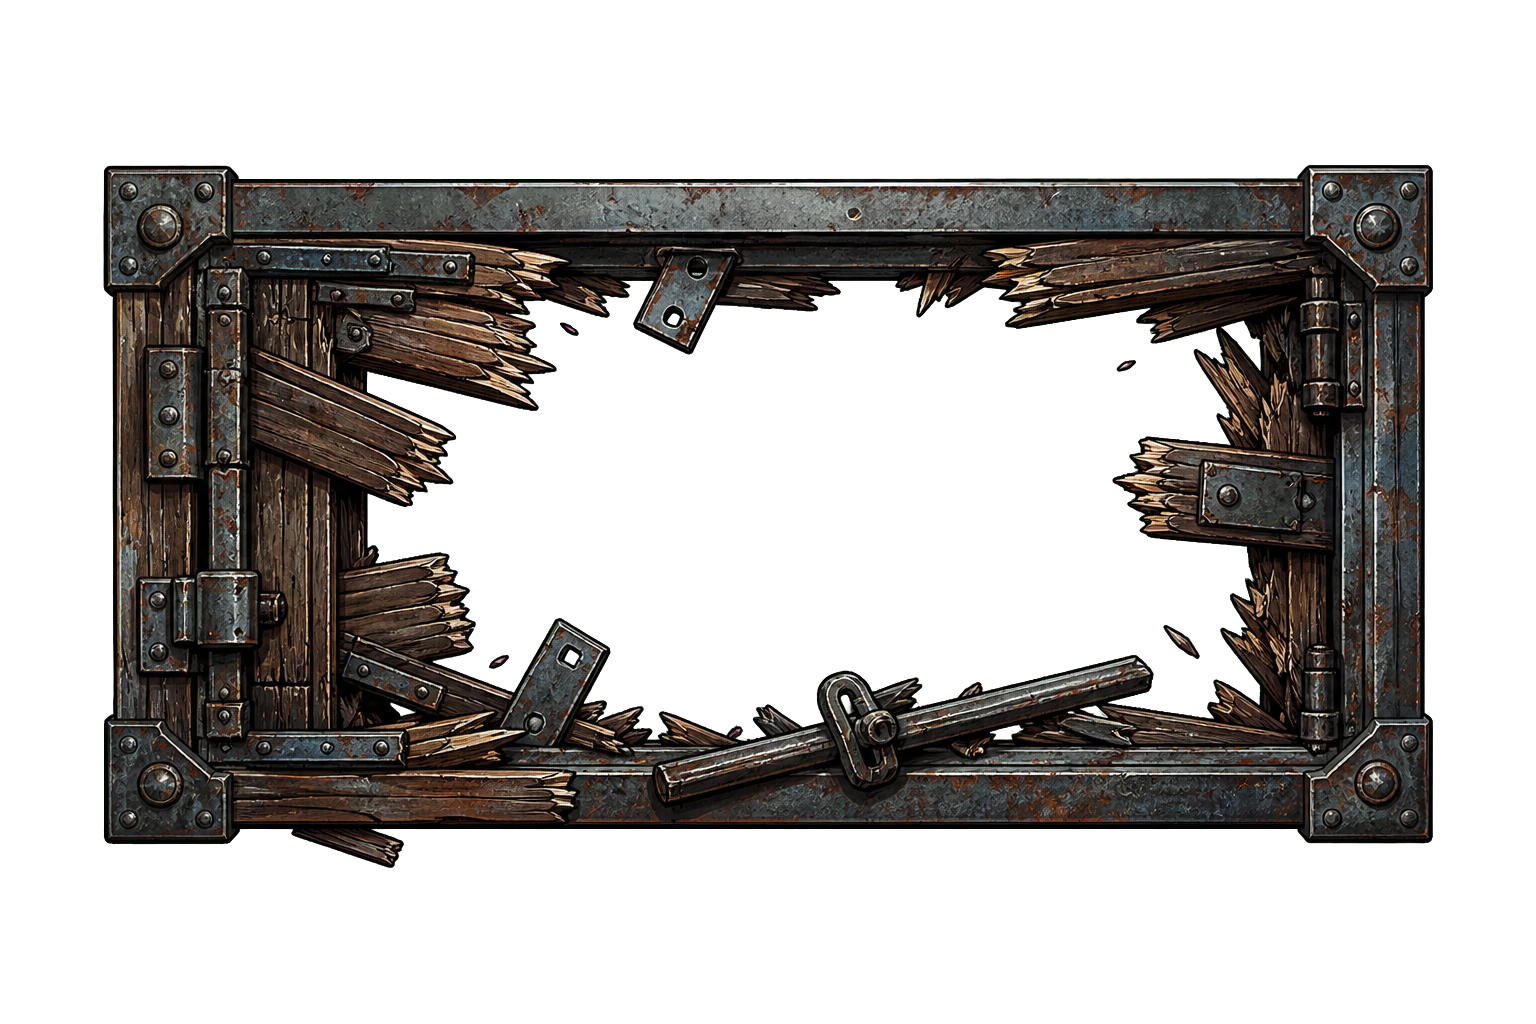
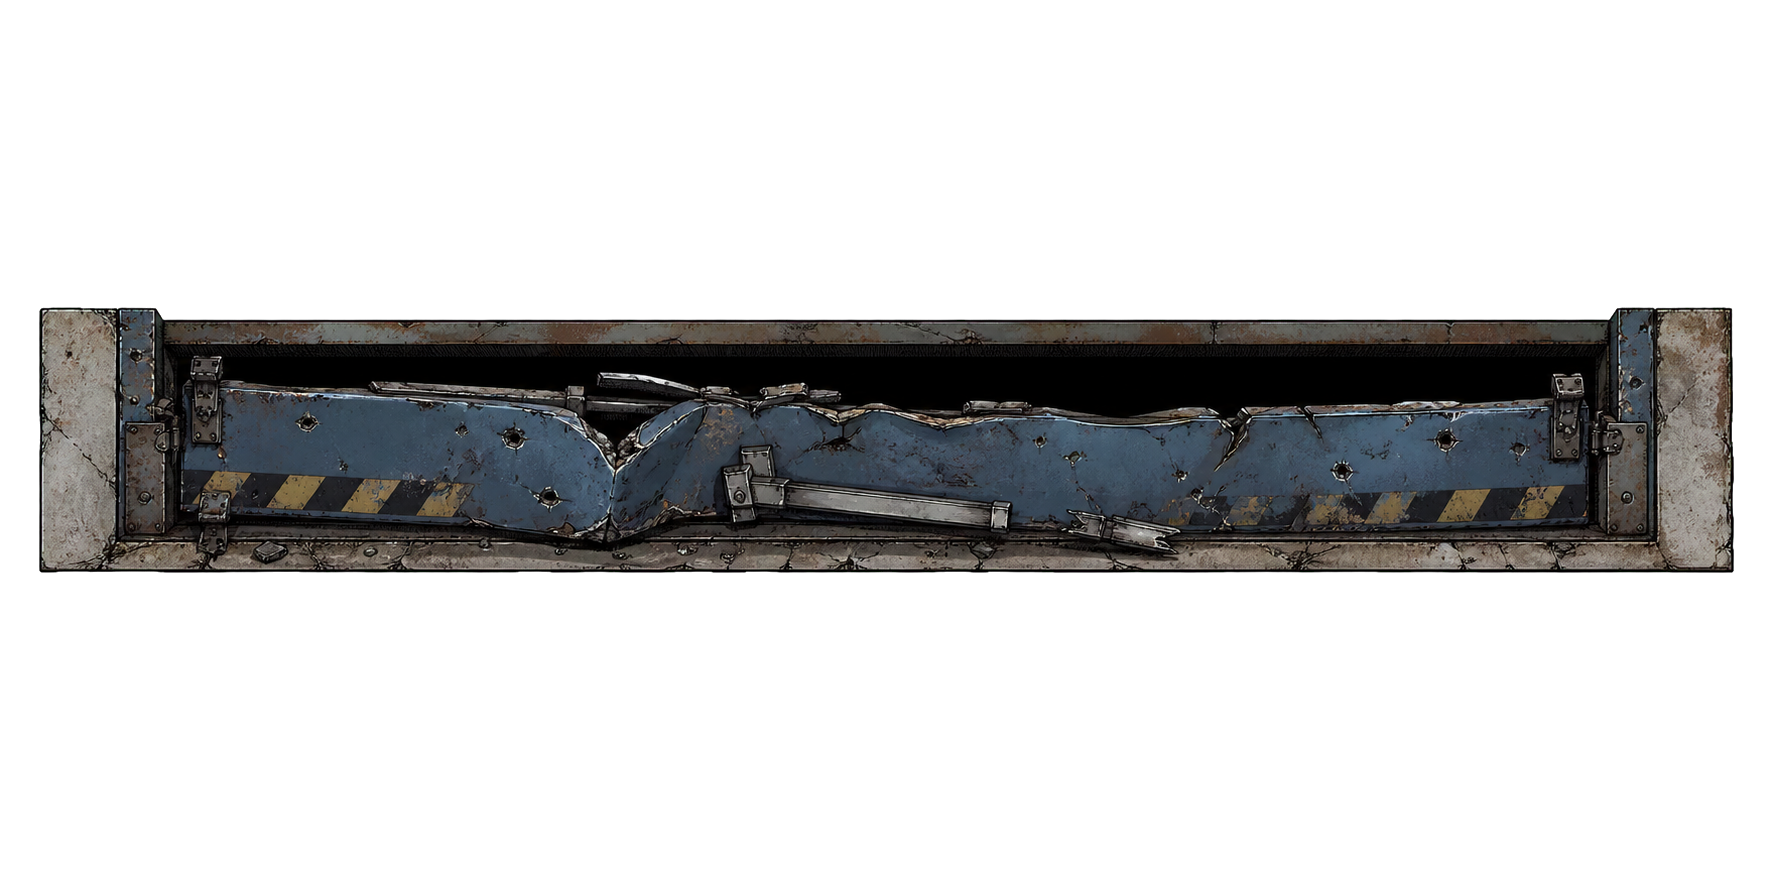
Add keyboard controls and urban doors

diff --git a/app/page.tsx b/app/page.tsx
@@ -65,7 +65,7 @@ export default function Home(){
  const audio=useRef<AudioContext|null>(null),musicAudio=useRef<HTMLAudioElement|null>(null),introTrack=useRef(1+Math.floor(Math.random()*2));
  const [onlineRole,setOnlineRole]=useState<"host"|"guest">("host");
  const [offer,setOffer]=useState(""); const [answer,setAnswer]=useState(""); const [connected,setConnected]=useState(false);
- const [roomId,setRoomId]=useState(""); const [alias,setAlias]=useState(""); const [playerCount,setPlayerCount]=useState(1); const [isHost,setIsHost]=useState(false); const [confirmQuit,setConfirmQuit]=useState(false); const [sessionEnded,setSessionEnded]=useState(false);
+ const [roomId,setRoomId]=useState(""); const [alias,setAlias]=useState(""); const [playerCount,setPlayerCount]=useState(1); const [isHost,setIsHost]=useState(false); const [confirmQuit,setConfirmQuit]=useState(false); const [confirmEndTurn,setConfirmEndTurn]=useState(false); const [sessionEnded,setSessionEnded]=useState(false);
  const [chosenMission,setChosenMission]=useState("last-ride"); const [chosenHeroes,setChosenHeroes]=useState<number[]>([0,1]); const [briefing,setBriefing]=useState(false);
  const [setupMode,setSetupMode]=useState<Mode>("solo");
  const [zoom,setZoom]=useState(1);
@@ -122,6 +122,7 @@ export default function Home(){
  function yieldTo(index:number){if(index===game.active||game.heroes[index]?.actions<1)return;commit(g=>{g.active=index;log(g,`${g.heroes[index].name} takes initiative.`);return g});announce("INITIATIVE PASSED")}
  function endTurn(){commit(g=>{g.heroes[g.active].actions=0;const next=g.heroes.findIndex(h=>h.actions>0);if(next>=0){g.active=next;log(g,`${g.heroes[next].name}'s turn.`);return g}return zombiePhase(g)});}
  function beginMission(){if(roomId&&!isHost)return;setBriefing(false);if(roomId)updateLobby("playing",game.lobbyMission||game.mission,game.lobbyHeroes||game.heroes.map(h=>h.id))}
+ function switchHands(){if(game.status!=="playing")return;commit(g=>{const h=g.heroes[g.active],[primary,secondary]=h.hands;h.hands=[secondary,primary];log(g,`${h.name} switches primary and secondary hands.`);return g});announce("HANDS SWITCHED")}
  function zombiePhase(g:Game){announce("ZOMBIE PHASE");log(g,"— ZOMBIE PHASE —");for(const z of g.zombies){const alive=g.heroes.filter(h=>h.hp>0);if(!alive.length)break;const routes=alive.map(h=>({h,path:pathTo(z,h,g.openDoors)})).filter(r=>r.path.length||dist(z,r.h)===0).sort((a,b)=>a.path.length-b.path.length),t=routes[0]?.h||alive[0],steps=z.kind==="runner"?2:1;for(let n=0;n<steps;n++){if(dist(z,t)===0){t.hp--;setFx({id:Date.now()+z.id,kind:"bite",to:{x:t.x,y:t.y}});announce(`${t.name.toUpperCase()} HIT!`);log(g,`${t.name} is bitten!`);const possessions=[...t.hands.map((item,index)=>({area:"hands" as const,index,item})),...t.bag.map((item,index)=>({area:"bag" as const,index,item}))].filter(v=>v.item);if(possessions.length&&Math.random()<.3){const lost=possessions[Math.floor(Math.random()*possessions.length)];t[lost.area][lost.index]=null;log(g,`${t.name} loses ${lost.item!.name} in the attack!`);setTimeout(()=>announce(`${t.name.toUpperCase()} LOST ${lost.item!.name.toUpperCase()}!`),650)}break}const route=pathTo(z,t,g.openDoors);if(route.length){const [nx,ny]=route[0].split(",").map(Number);z.x=nx;z.y=ny}else log(g,`${z.kind} claws at a blocked route.`)}}
   let id=Math.max(0,...g.zombies.map(z=>z.id))+1;const fallen=g.heroes.filter(h=>h.hp<=0);for(const h of fallen){g.zombies.push({id:id++,kind:"walker",x:h.x,y:h.y,hp:1});announce(`${h.name.toUpperCase()} HAS TURNED!`);log(g,`${h.name} has turned!`)}g.heroes=g.heroes.filter(h=>h.hp>0);for(const s of spawn){const count=Math.min(3,g.danger);for(let i=0;i<count;i++)g.zombies.push({id:id++,kind:g.round%4===0?"brute":g.round%3===0?"runner":"walker",x:s.x,y:s.y,hp:g.round%4===0?2:1})}
   g.noise=Math.max(0,g.noise-2);g.round++;g.active=0;g.heroes.forEach(h=>{h.actions=3;h.used=[]});if(!g.heroes.length)g.status="lost";else if(!g.objectives.length&&g.heroes.every(h=>exits.has(`${h.x},${h.y}`)))g.status="won";else log(g,`ROUND ${g.round} — ${g.zombies.length} infected roam.`);return g;
@@ -132,6 +133,8 @@ export default function Home(){
  async function makeOffer(){const pc=new RTCPeerConnection();peer.current=pc;wire(pc.createDataChannel("deadzone"));await pc.setLocalDescription(await pc.createOffer());await waitIce(pc);setOffer(btoa(JSON.stringify(pc.localDescription)));}
  async function acceptOffer(){try{const pc=new RTCPeerConnection();peer.current=pc;pc.ondatachannel=e=>wire(e.channel);await pc.setRemoteDescription(JSON.parse(atob(offer.trim())));await pc.setLocalDescription(await pc.createAnswer());await waitIce(pc);setAnswer(btoa(JSON.stringify(pc.localDescription)))}catch{ping("That invite code is invalid")}}
  async function acceptAnswer(){try{await peer.current?.setRemoteDescription(JSON.parse(atob(answer.trim())))}catch{ping("That answer code is invalid")}}
+
+ useEffect(()=>{const onKey=(e:KeyboardEvent)=>{const tag=(e.target as HTMLElement)?.tagName;if(tag==="INPUT"||tag==="TEXTAREA"||tag==="SELECT")return;if(e.key==="Escape"){if(inventory){setInventory(false);setPicked(null)}else if(confirmEndTurn)setConfirmEndTurn(false);else if(confirmQuit)setConfirmQuit(false);return}if(screen!=="game"||briefing||inventory||confirmQuit||confirmEndTurn||game.status!=="playing")return;if(e.code==="Space"){e.preventDefault();if(hero.actions>0)setConfirmEndTurn(true);else endTurn()}else if(e.key==="1"){e.preventDefault();switchHands()}};addEventListener("keydown",onKey);return()=>removeEventListener("keydown",onKey)},[screen,briefing,inventory,confirmQuit,confirmEndTurn,game.status,game.active,hero.actions]);
 
  const canEvac=!game.objectives.length,heroKey=`${hero.x},${hero.y}`,freeSearch=hero.skill==="FREE SEARCH"&&!hero.used.includes("search"),canSearch=(hero.actions>0||freeSearch)&&buildings.has(heroKey)&&!game.searched.includes(heroKey),searchTip=!buildings.has(heroKey)?"Move into a room to search":game.searched.includes(heroKey)?"This room has already been searched":"No actions left to search",closedDoor=[...doors.keys()].some(id=>id.split("|").includes(heroKey)&&!game.openDoors.includes(id)),hasBreach=hero.skill==="BREACHER"||hero.hands.some(v=>v?.door),canOpenDoor=hero.actions>0&&closedDoor&&hasBreach,doorTip=!closedDoor?"Stand beside a closed door":!hasBreach?"Equip a Fire Axe or another breaching tool":"No actions left to open the door",hasMedkit=hero.hands.some(v=>v?.heal),canHeal=hero.actions>0&&hasMedkit,healTip=!hasMedkit?"Equip a Medkit in your hand":"No actions left to use the Medkit";
  return <main className="shell" onPointerDown={resumeMusic}>
@@ -150,10 +153,10 @@ export default function Home(){
     <button onClick={createRoom}><b>ONLINE CO-OP</b><span>Create one link. Friends join instantly.</span></button>
    </div>
    <div className="menu-row"><button className="textbtn" onClick={()=>setScreen("rules")}>HOW TO PLAY</button><button className="textbtn" onClick={()=>{const s=localStorage.getItem("deadzone-save");if(s){setGame(JSON.parse(s));setScreen("game")}}}>CONTINUE</button></div>
-   <div className="background-fires" aria-hidden><i/><i/><i/></div><div className="zombie-silhouette">🧟</div><small className="build-version">BUILD 20260711-18</small>{sessionEnded&&<div className="sessionnotice"><b>THE HOST ENDED THE GAME</b><button onClick={()=>setSessionEnded(false)}>DISMISS</button></div>}
+   <div className="background-fires" aria-hidden><i/><i/><i/></div><div className="zombie-silhouette">🧟</div><small className="build-version">BUILD 20260711-19</small>{sessionEnded&&<div className="sessionnotice"><b>THE HOST ENDED THE GAME</b><button onClick={()=>setSessionEnded(false)}>DISMISS</button></div>}
   </section>}
   {screen==="setup"&&<section className="setup-screen"><button className="back" onClick={()=>{setScreen(setupMode==="online"?"connect":"menu");if(roomId&&isHost)updateLobby("room")}}>← BACK</button><div className="setup-head"><span>MISSION CONTROL</span><h2>CHOOSE YOUR LAST STAND</h2><p>{roomId&&!isHost?"The host is choosing the mission and survivors. Your screen updates live.":"The host chooses the scenario and survivor roster. Every mission has its own map, squad limits, story, and objectives."}</p></div><div className="mission-cards">{MISSIONS.map(m=><button key={m.id} disabled={!!roomId&&!isHost} className={chosenMission===m.id?"selected":""} onClick={()=>{const heroes=chosenHeroes.slice(0,m.max);setChosenMission(m.id);setChosenHeroes(heroes);if(roomId)updateLobby("setup",m.id,heroes)}}><small>MISSION {MISSIONS.indexOf(m)+1}</small><b>{m.title}</b><p>{m.story}</p><i>{m.objectivesText}</i><span>SQUAD {m.min}–{m.max}</span></button>)}</div><div className="roster-head"><h3>SELECT SURVIVORS</h3><span>{chosenHeroes.length} / {(MISSIONS.find(m=>m.id===chosenMission)||MISSIONS[0]).max}</span></div><div className="roster-grid">{heroSeeds.map((h,i)=><button key={h[0]} disabled={!!roomId&&!isHost} className={`${chosenHeroes.includes(i)?"selected":""} recruit recruit-${i}`} onClick={()=>{const m=MISSIONS.find(v=>v.id===chosenMission)||MISSIONS[0],heroes=chosenHeroes.includes(i)?chosenHeroes.filter(x=>x!==i):chosenHeroes.length<m.max?[...chosenHeroes,i]:chosenHeroes;setChosenHeroes(heroes);if(roomId)updateLobby("setup",chosenMission,heroes)}}><span className="recruit-portrait"/><i>{h[1]}</i><b>{h[0]}</b><small>{h[2]}</small></button>)}</div>{!roomId||isHost?<button className="primary launch" onClick={()=>start(setupMode)}>LAUNCH MISSION →</button>:<div className="waiting-host">WAITING FOR HOST TO LAUNCH MISSION…</div>}</section>}
-  {screen==="rules"&&<section className="paper"><button className="back" onClick={()=>setScreen("menu")}>← BACK</button><h2>FIELD MANUAL</h2><div className="rules-grid"><article><b>1. SURVIVORS</b><p>Each survivor gets 3 actions: move, attack, search, heal, or pass.</p></article><article><b>2. THE HORDE</b><p>After the whole team acts, zombies move, bite, and new infected spawn.</p></article><article><b>3. THE MISSION</b><p>Search all three red supply caches, then move every survivor onto the green evac zone.</p></article><article><b>4. COMBAT</b><p>Click an infected in weapon range. Brutes take 2 damage. Danger and spawns rise with XP.</p></article></div><button className="primary" onClick={()=>start("solo")}>BEGIN MISSION</button></section>}
+  {screen==="rules"&&<section className="paper"><button className="back" onClick={()=>setScreen("menu")}>← BACK</button><h2>FIELD MANUAL</h2><div className="rules-grid"><article><b>1. SURVIVORS</b><p>Each survivor gets 3 actions: move, attack, search, heal, or pass.</p></article><article><b>2. THE HORDE</b><p>After the whole team acts, zombies move, bite, and new infected spawn.</p></article><article><b>3. THE MISSION</b><p>Search all three red supply caches, then move every survivor onto the green evac zone.</p></article><article><b>4. COMBAT</b><p>Click an infected in weapon range. Brutes take 2 damage. Danger and spawns rise with XP.</p></article><article><b>⌨ KEYBOARD SHORTCUTS</b><p><strong>SPACE</strong> — End turn. If actions remain, confirm first.<br/><strong>1</strong> — Switch primary and secondary hand items for free.<br/><strong>ESC</strong> — Close Loadout or dismiss the active confirmation dialog.</p></article></div><button className="primary" onClick={()=>start("solo")}>BEGIN MISSION</button></section>}
   {screen==="connect"&&<section className="paper connect"><button className="back" onClick={terminateGame}>← CANCEL ROOM</button><h2>GAME SESSION</h2><p>You are <b>{alias}</b>. {isHost?"Send this link to your friends—they will be assigned Player 2, Player 3, and so on automatically.":"You joined the session. Waiting for the host to select the mission and squad."}</p>{isHost&&<a className="invite-link" href={`${typeof location!=="undefined"?location.origin:""}?room=${roomId}`} onClick={e=>{e.preventDefault();navigator.clipboard.writeText((e.currentTarget as HTMLAnchorElement).href);ping("Invite link copied!")}}>{typeof location!=="undefined"?`${location.origin}?room=${roomId}`:`ROOM ${roomId}`}</a>}<div className="lobbycount"><b>{playerCount}</b><span>PLAYER{playerCount===1?"":"S"} IN SESSION</span></div>{isHost?<button className="primary" onClick={()=>{setSetupMode("online");setScreen("setup");updateLobby("setup")}}>SELECT MISSION & SQUAD</button>:<div className="waiting-host">WAITING FOR HOST TO SELECT MISSION & SQUAD…</div>}
   </section>}
   {screen==="game"&&<section className="game">
@@ -167,6 +170,7 @@ export default function Home(){
    {game.status==="won"&&<div className="victory"><div className="background-fires outcome-fires" aria-hidden><i/><i/><i/></div><div className="defeatcopy"><span>EVACUATED</span><h2>YOU MADE IT OUT ALIVE</h2><p>Survived {game.round} rounds · {game.heroes.reduce((n,h)=>n+h.kills,0)} infected eliminated</p><button className="primary" onClick={()=>start(game.mode)}>PLAY AGAIN</button><button onClick={()=>setScreen("menu")}>MAIN MENU</button></div></div>}
    {game.status==="lost"&&<div className="defeat"><div className="background-fires outcome-fires" aria-hidden><i/><i/><i/></div><div className="defeatcopy"><span>THE HORDE WINS</span><h2>NO ONE MADE IT OUT</h2><p>The city swallowed your entire squad after {game.round} rounds.</p><button className="primary" onClick={()=>{setRoomId("");history.replaceState({},"",location.pathname);setScreen("menu")}}>RETURN TO MAIN MENU</button></div></div>}
    {confirmQuit&&<div className="modal confirm"><div><span>ABANDON MISSION?</span><h2>{isHost?"THIS WILL END THE GAME FOR EVERY PLAYER":"LEAVE THIS SESSION?"}</h2><p>{isHost?"Your team will be returned to the main menu and the invite link will close.":"The other survivors can continue without you."}</p><button className="primary" onClick={terminateGame}>{isHost?"END GAME FOR EVERYONE":"LEAVE GAME"}</button><button onClick={()=>setConfirmQuit(false)}>KEEP PLAYING</button></div></div>}
+   {confirmEndTurn&&<div className="modal confirm"><div><span>END TURN?</span><h2>{hero.name.toUpperCase()} STILL HAS {hero.actions} AP</h2><p>Unused action points will be lost.</p><button className="primary" onClick={()=>{setConfirmEndTurn(false);endTurn()}}>END TURN ANYWAY</button><button onClick={()=>setConfirmEndTurn(false)}>KEEP ACTING</button></div></div>}
   </section>}
  </main>
 }